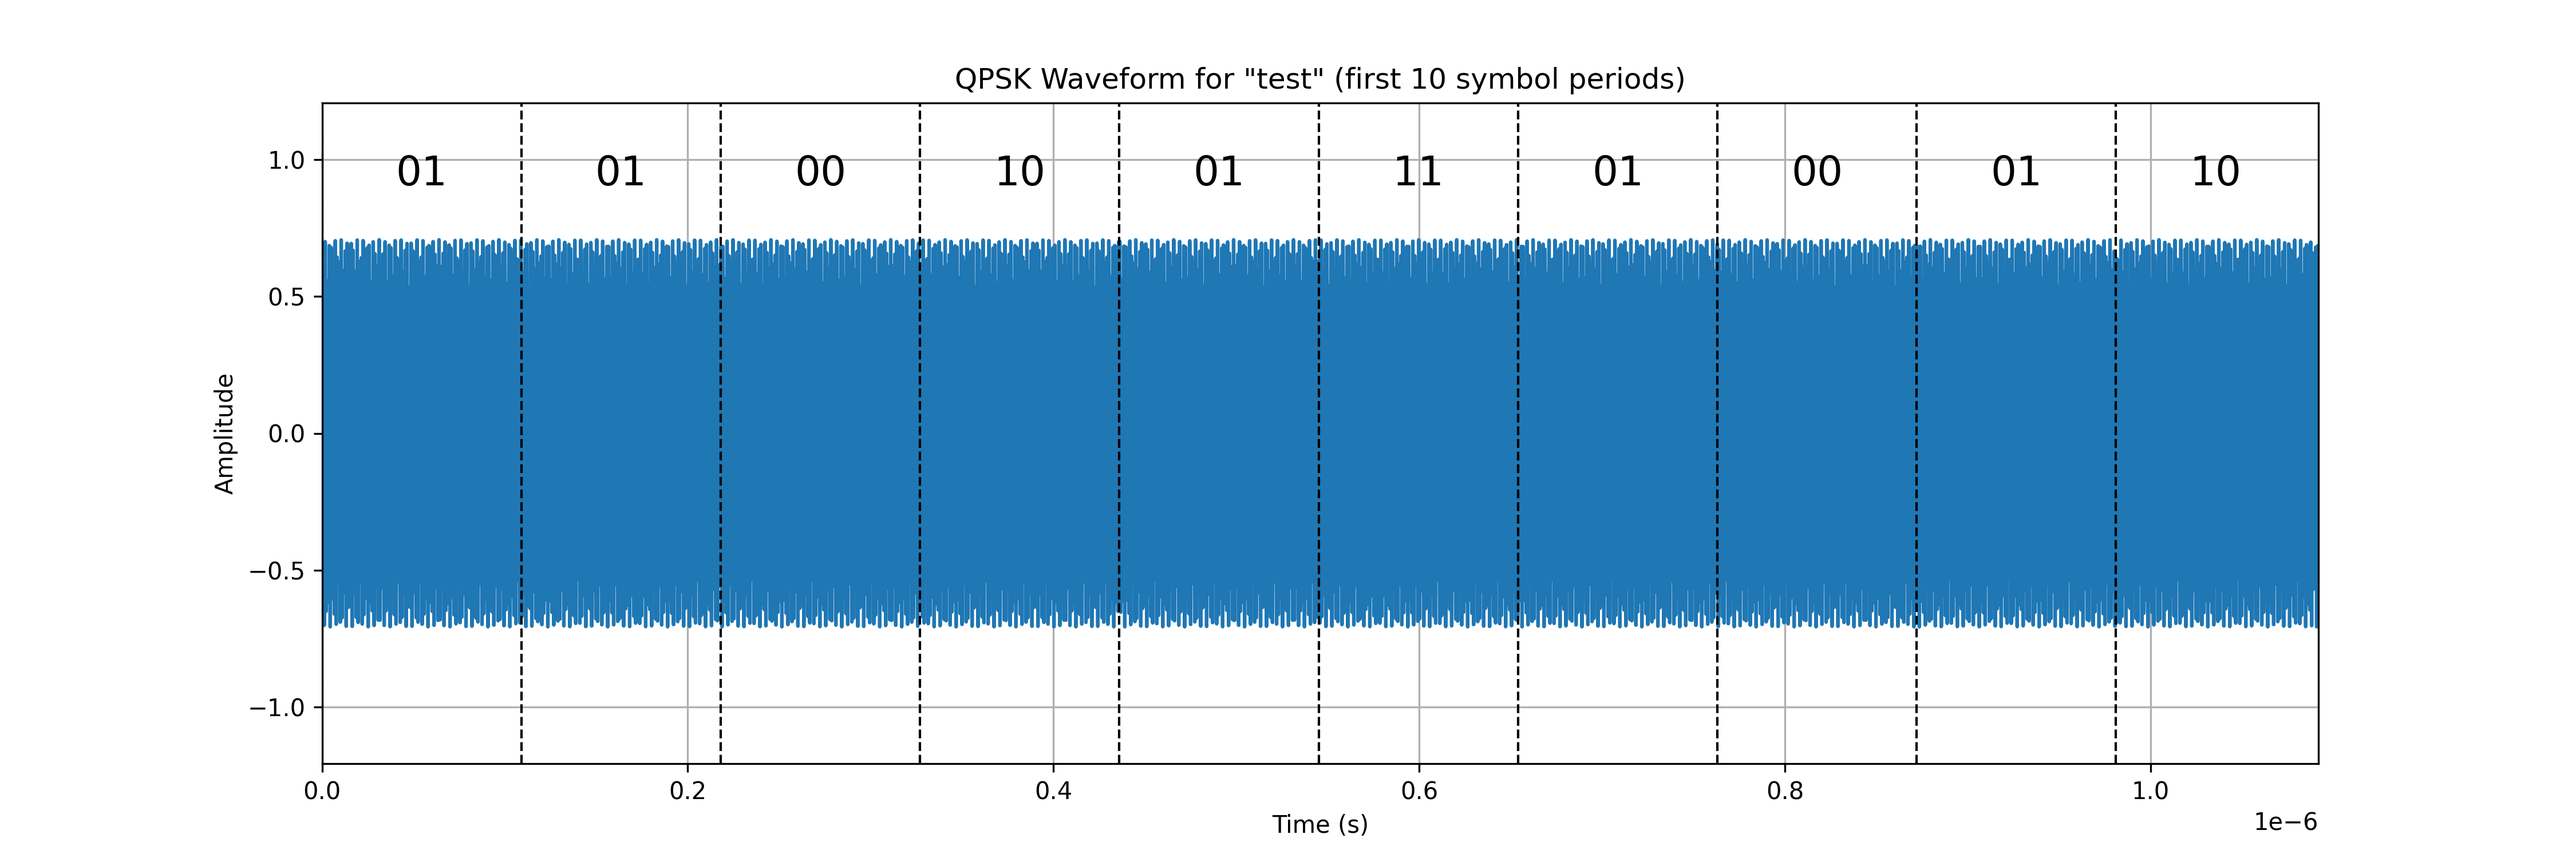
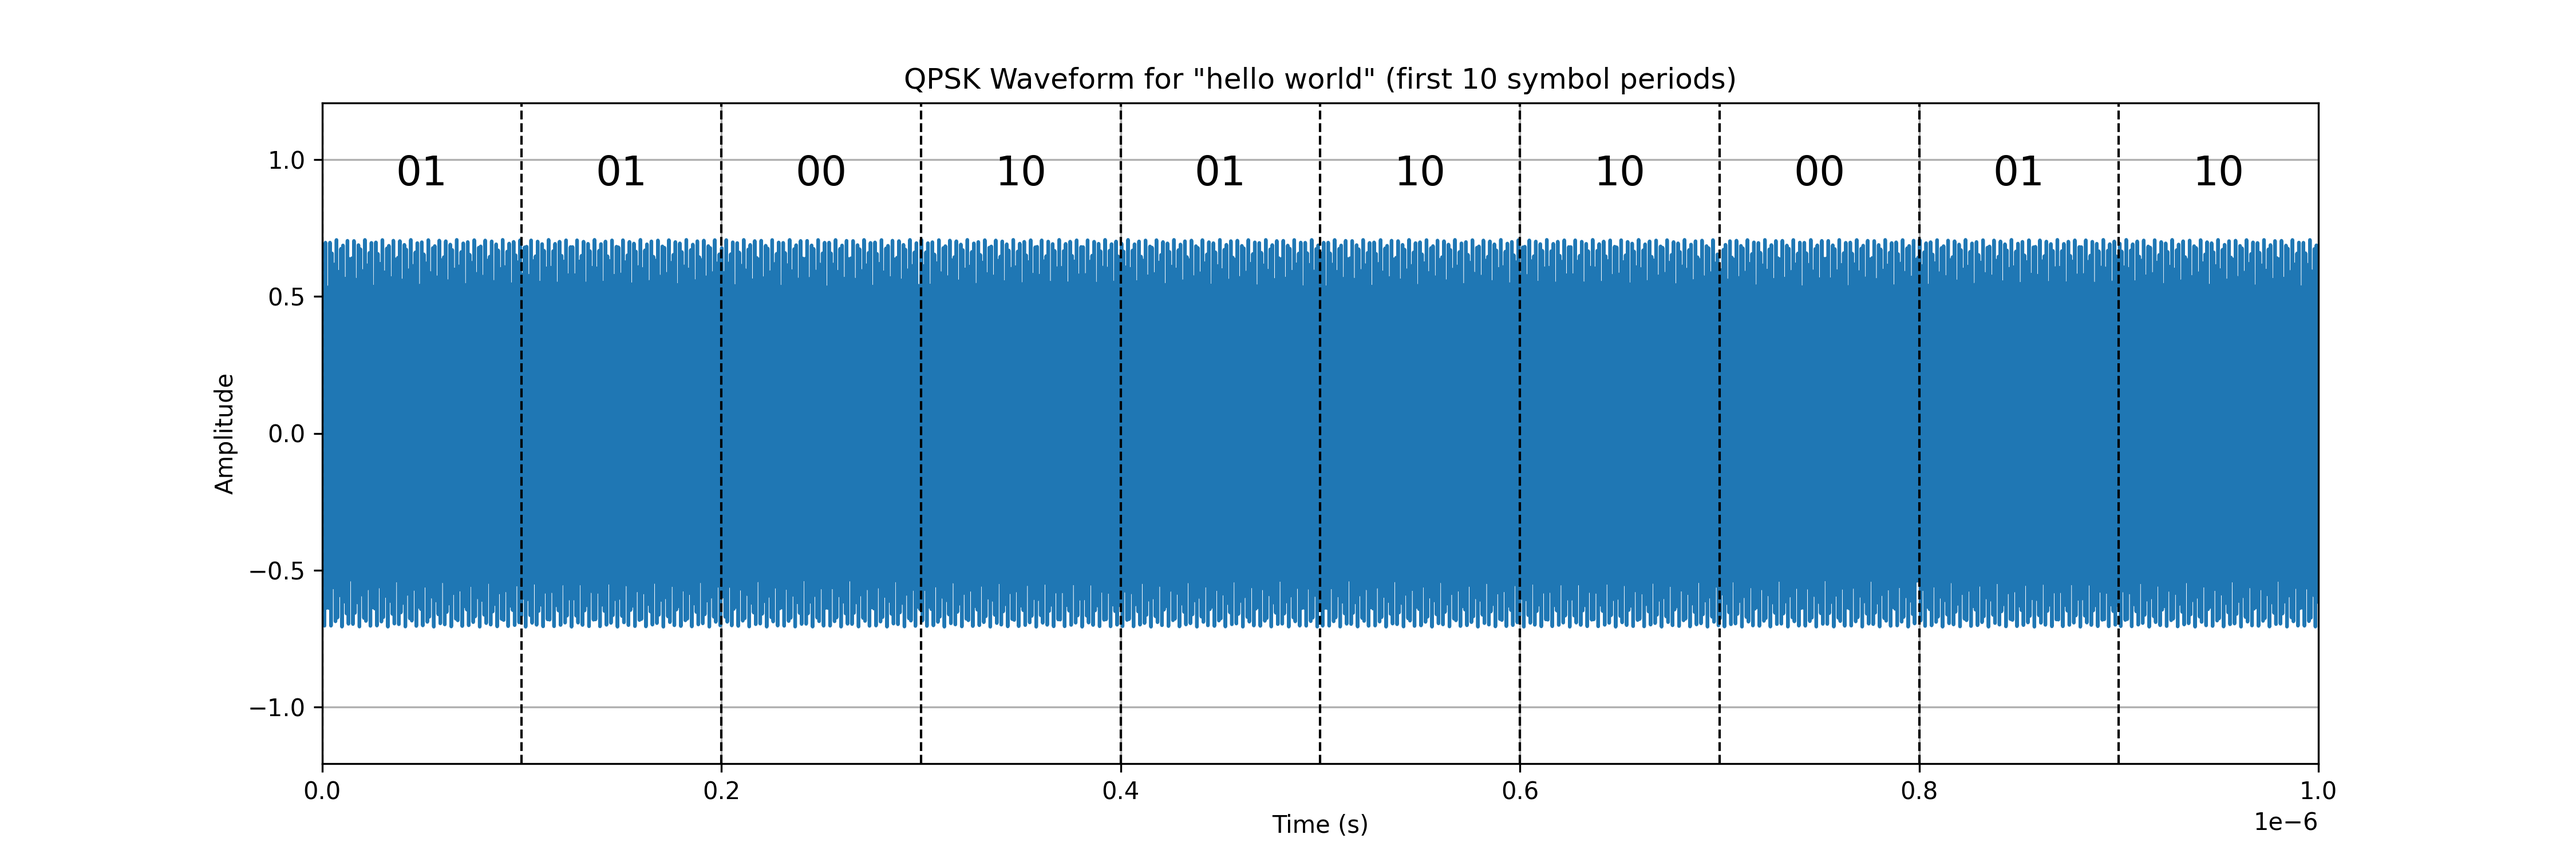
main file wor\k

diff --git a/Phys_Sim/main.py b/Phys_Sim/main.py
@@ -1,5 +1,18 @@
-#TODO insert file header here
-# this file will be used to run the GUI
+# =============================================================================
+# File: main.py
+# Authors: Skylar Harris, Jorge Hernandez, Kobe Prior, Trevor Wiseman
+# Description:
+#   This program provides a graphical user interface (GUI) for simulating a 
+#   digital communication system, including a signal generator, repeater, and 
+#   receiver. Users can input messages, configure simulation parameters such as 
+#   frequency, gain, and noise, and visualize the signal processing stages. 
+#   The application is built using NiceGUI and integrates with custom signal 
+#   processing modules (Sig_Gen, Receiver, Repeater). It is intended for 
+#   educational and prototyping purposes in the context of physical layer 
+#   communications.
+# =============================================================================
+
+#imports
 from nicegui import ui
 import Sig_Gen as Sig_Gen
 import Receiver as Receiver
@@ -8,25 +21,26 @@ import plotly.graph_objects as go
 import numpy as np
 import matplotlib.pyplot as plt
 import time
-# global objects for the Sig_Gen, Receiver, and Repeater classes
-symbol_rate = 10
+
+#global objects for the Sig_Gen, Receiver, and Repeater classes
+symbol_rate = 10e6
 sample_rate = 4e9
 sig_gen = Sig_Gen.SigGen(sample_rate = sample_rate, symbol_rate = symbol_rate)
 repeater = Repeater.Repeater(sampling_frequency=sample_rate)
 receiver = Receiver.Receiver(sampling_rate=sample_rate)
-
-
 noise_bool = False  # Global variable to control noise addition
 noise_power = 0.1  # Default noise power
 message_input = None  # Global variable to store the message input field
 
 
-
+def Noise_Addr(input_wave, noise_power):
+    #define noise
+    noise =np.random.normal(0,1,len(input_wave))
+    return input_wave+noise
 #front page
 with ui.row().style('height: 100vh; width: 100%; display: flex; justify-content: center; align-items: center;'):
     with ui.link(target='\simulate_page'):
         simulate_button = ui.image('media/simulate.png').style('width: 50vh; height: 50vh;')
-    #TODO: make this command and control the opacity of the image
     with ui.link(target='#'):
         control_button = ui.image('media/control.png').style('width: 50vh; height: 50vh;')
         control_button.on('click', lambda: ui.notify('Control feature not yet available!'))  # Placeholder for control functionality
@@ -39,7 +53,7 @@ def simulate_page():
     with ui.row().style('justify-content: center;'):
         ui.label('Simulation Type').style('font-size: 2em; font-weight: bold;')
 
-
+    #function to handle drop down menu
     def open_simulation_single_message():
         """This function triggers when the user selects a simulation type from the dropdown.
         It clears the simulation container and displays the appropriate input fields based on the selected type."""
@@ -63,12 +77,13 @@ def simulate_page():
                 ui.label('Add Noise?').style('width: 200px;')
                 noise_checkbox = ui.checkbox('add noise')#the value here will be a bool that can be used for siGen
                 #iff the user checks the noise checkbox, then show the noise slider
-
                 ui.label('Noise Level (dB)').style('width: 200px; margin-bottom: 10px;').bind_visibility_from(noise_checkbox, 'value')
                 noise_slider = ui.slider(min=0, max=10, step=1).props('label-always').bind_visibility_from(noise_checkbox, 'value')
 
-
+                #submit button
                 ui.button("Submit", on_click=lambda: store_data()).style('width: 200px; height: 10px;')
+                #function to store data on submit button click
+                
                 def store_data():
                     """
                     stoample_rate = sample_rate, symbol_rate = symbol_ratee_data()
@@ -80,6 +95,7 @@ def simulate_page():
                     global receiver
                     global repeater
                     global message_input
+<<<<<<< HEAD
                     message_input = message.value
                     #run the sig gen handler
                     sig_gen.handler(message.value, int(freq_in_slider.value)*1e6) 
@@ -91,6 +107,9 @@ def simulate_page():
                     #add receiver things as well
                     repeater.handler(sig_gen.time_vector, sig_gen.qpsk_waveform, sig_gen.freq)
 
+=======
+                    #check if we need to apply noise
+>>>>>>> c76c3d1 (main file wor\k)
                     if noise_checkbox.value:
                         global noise_bool
                         noise_bool = True
@@ -100,9 +119,23 @@ def simulate_page():
                         noise_bool = False
                         noise_power = 0  # Default value if no noise is added
 
+                    message_input = message.value
+                    #Sig Gen
+                    sig_gen.handler(message.value, int(freq_in_slider.value)*1e6) 
+                    #iff there is noise add it to the outgoing sig_gen waveform
+                    if noise_bool:
+                        sig_gen.qpsk_waveform = Noise_Addr(sig_gen.qpsk_waveform, noise_power)
+
+                    #Repeater 
+                    repeater.desired_freqeuncy = int(freq_out_slider.value) * 1e6
+                    #repeater.sampling_fequency = int(sig_gen.sample_rate)
+                    repeater.gain = 10**(int(gain_slider.value)/10) # convert dB to linear scale
+                    #add receiver things as well
+                    repeater.handler(sig_gen.time_vector, sig_gen.qpsk_waveform, sig_gen.freq)
+
                     #TODO put receiver class here
-                    _,best_bits = receiver.demodulator(sig_gen.qpsk_waveform, sig_gen.sample_rate, sig_gen.symbol_rate, repeater.desired_freqeuncy)
                     receiver.frequency=repeater.desired_freqeuncy
+                    
 
                     #noise_level = noise_slider.value
                     #debug:

diff --git a/Phys_Sim/Sig_Gen.py b/Phys_Sim/Sig_Gen.py
@@ -5,7 +5,7 @@ class SigGen:
         self.freq = None  # Frequency in Hz
         self.sample_rate = sample_rate  # sample rate in samples per second
         self.symbol_rate = symbol_rate  # Symbol rate in symbols per second about 30% of the frequency
-        self.amp = None    # Amplitude
+        self.amp = 1   # Amplitude
 
         self.time_vector = None
         self.qpsk_waveform = None
@@ -109,7 +109,7 @@ class SigGen:
         for lines in self.time_vertical_lines:
             #add vertical lines at the symbol boundaries
             if len(self.time_vertical_lines) > 10:
-                if lines < 9/self.symbol_rate:
+                if lines < 10/self.symbol_rate:
                     plt.axvline(x=lines, color='black', linestyle='--', linewidth=1)
 
                     #add annotation for the symbol e.g. '00', '01', '10', '11'
